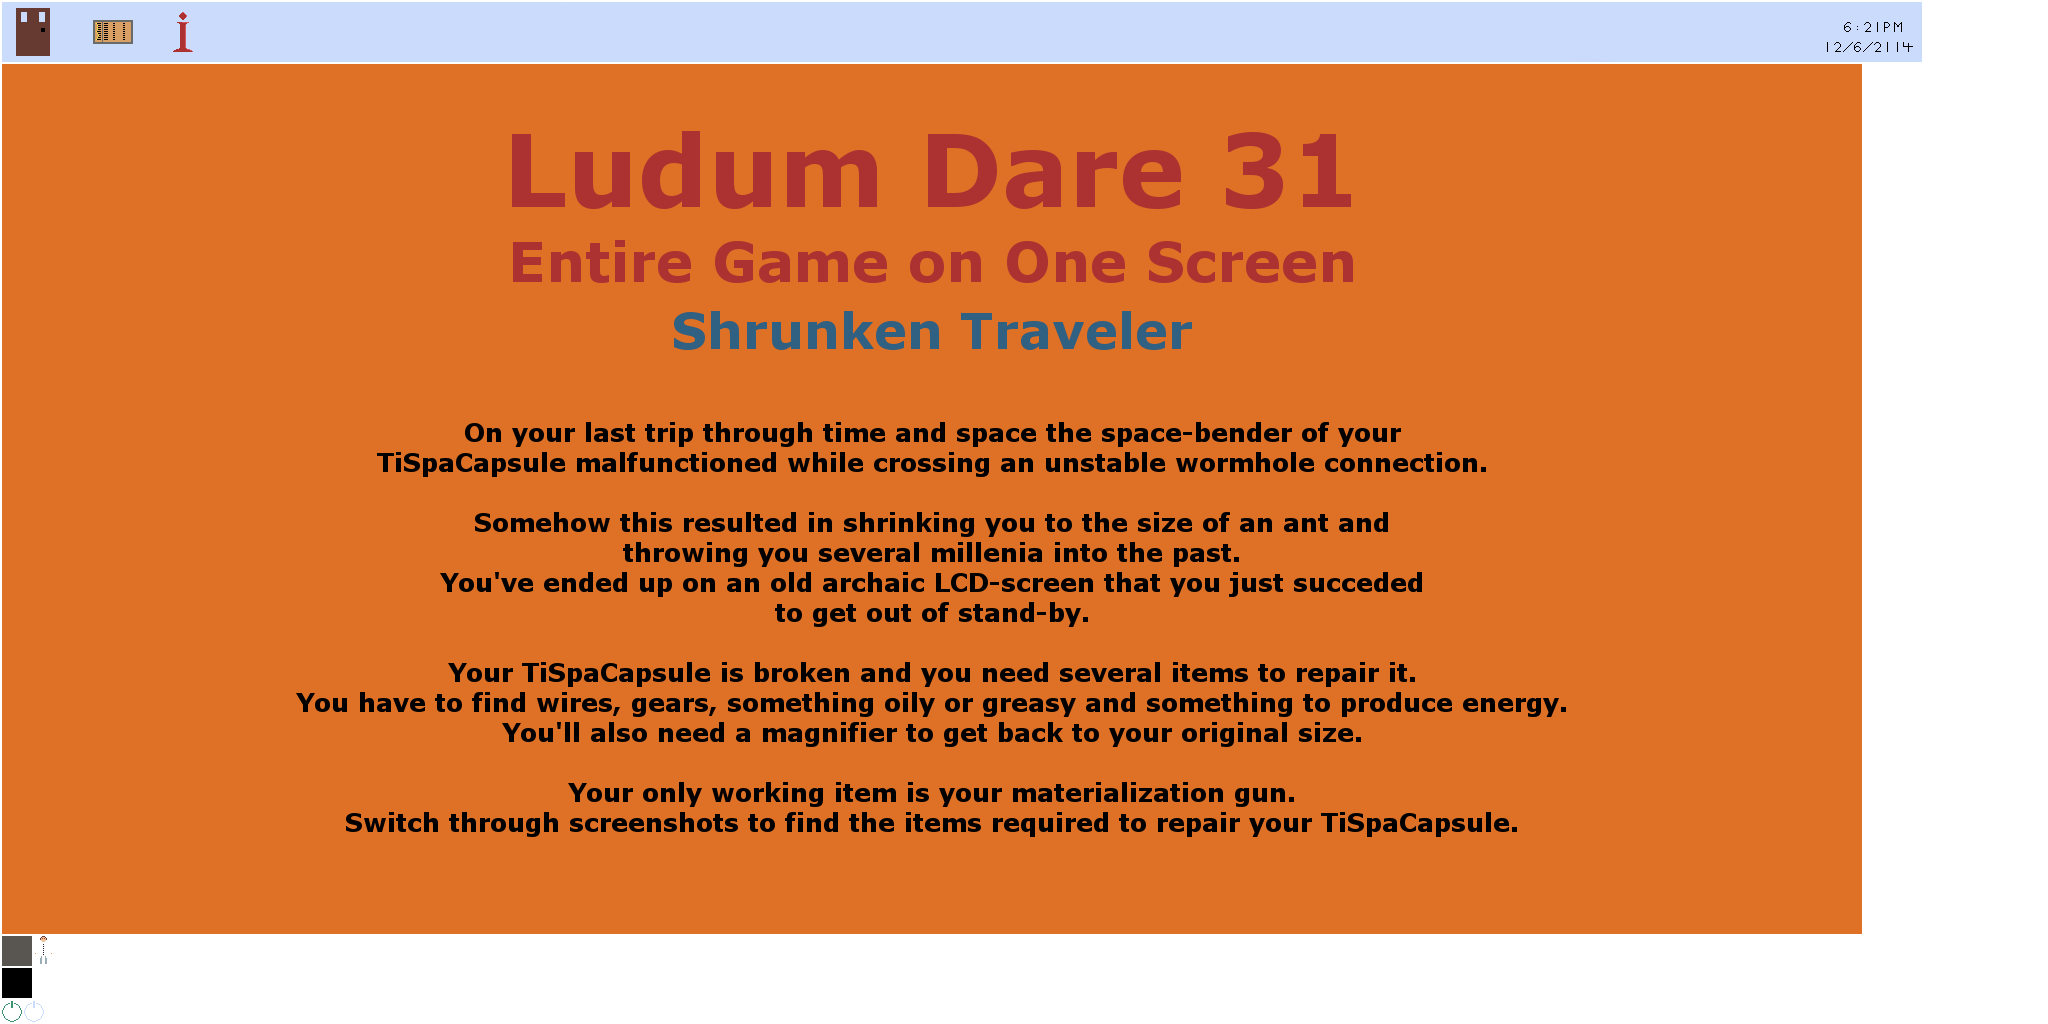
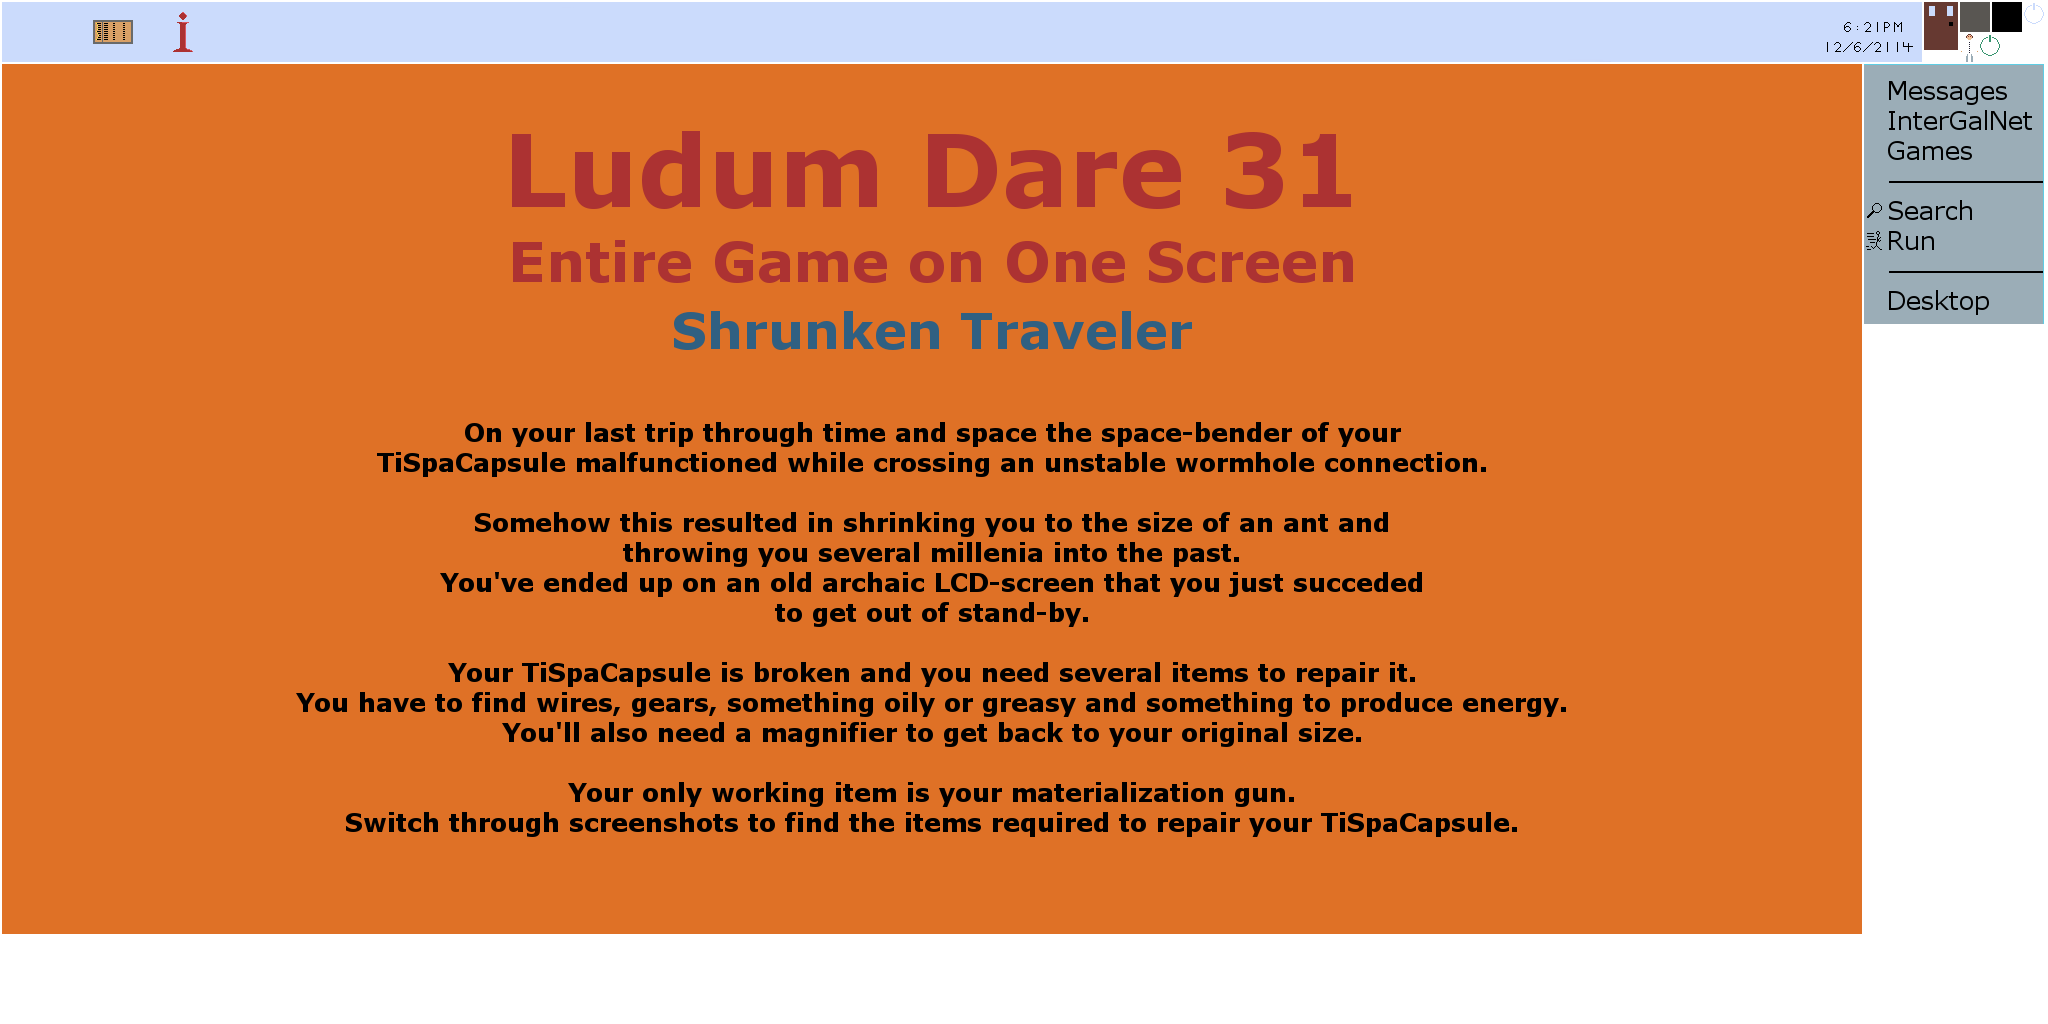
added doors-menu

Changed region(s): [[0.9062, 0.0, 1.0, 0.3438], [0.0, 0.9062, 0.0312, 1.0], [0.0, 0.0, 0.0312, 0.0625]]

diff --git a/lib/src/client/systems/rendering.dart b/lib/src/client/systems/rendering.dart
@@ -18,7 +18,7 @@ class RenderingSystem extends EntityProcessingSystem {
     var src = sheet.sprites[r.name].src;
     var dst = sheet.sprites[r.name].dst;
 
-    ctx.drawImageScaledFromSource(sheet.image, src.left, src.top, src.width, src.height, t.x, t.y, dst.width, dst.height);
+    ctx.drawImageScaledFromSource(sheet.image, src.left, src.top, src.width, src.height, t.x + tileSize/2 + dst.left, t.y + tileSize/2 + dst.top, dst.width, dst.height);
   }
 }
 
@@ -26,7 +26,7 @@ class ObjectLayerRenderingSystem extends RenderingSystem {
   ObjectLayerRenderingSystem(CanvasRenderingContext2D ctx, SpriteSheet sheet) : super(ctx, sheet, Aspect.getAspectForAllOf([ObjectLayer]));
 }
 class ButtonLayerRenderingSystem extends RenderingSystem {
-  ButtonLayerRenderingSystem(CanvasRenderingContext2D ctx, SpriteSheet sheet) : super(ctx, sheet, Aspect.getAspectForAllOf([Button]));
+  ButtonLayerRenderingSystem(CanvasRenderingContext2D ctx, SpriteSheet sheet) : super(ctx, sheet, Aspect.getAspectForAllOf([Button]).exclude([ScreenBackground]));
 }
 class ScreenBackgroundLayerRenderingSystem extends RenderingSystem {
   ScreenBackgroundLayerRenderingSystem(CanvasRenderingContext2D ctx, SpriteSheet sheet) : super(ctx, sheet, Aspect.getAspectForAllOf([ScreenBackground]));
@@ -147,4 +147,21 @@ class PreviewContainerRenderingSystem extends VoidEntitySystem {
 
   @override
   bool checkProcessing() => state.screenOn;
+}
+
+class DoorsMenuRenderingSystem extends VoidEntitySystem {
+  CanvasRenderingContext2D ctx;
+  SpriteSheet sheet;
+
+  DoorsMenuRenderingSystem(this.ctx, this.sheet);
+
+  @override
+  void processSystem() {
+    var src = sheet.sprites['doors_menu'].src;
+    var dst = sheet.sprites['doors_menu'].dst;
+    ctx.drawImageScaledFromSource(sheet.image, src.left, src.top, src.width, src.height, tileSize, 1080 - 2 * tileSize - dst.height, dst.width, dst.height);
+  }
+
+  @override
+  bool checkProcessing() => state.screenOn && state.doorsMenuOpened;
 }

diff --git a/lib/client.dart b/lib/client.dart
@@ -28,9 +28,10 @@ class Game extends GameBase {
   }
 
   void createEntities() {
-    addEntity([new Transform(0, 0), new Renderable('player'), new Controller(), new ObjectLayer()]);
+    addEntity([new Transform(1920, 1080), new Renderable('player'), new Controller(), new ObjectLayer()]);
     addEntity([new Transform(1920 - tileSize, 1080), new Renderable('button_off'), new Button(toggleScreen)]);
-    addEntity([new Transform(0, 1080 - 2 * tileSize), new Renderable('doors_taskbar'), new ScreenBackground()]);
+    addEntity([new Transform(1920/2 - tileSize/2, 1080 - 2 * tileSize + tileSize/2), new Renderable('doors_taskbar'), new ScreenBackground()]);
+    addEntity([new Transform(tileSize, 1080 - tileSize), new Renderable('doorsbutton'), new ScreenBackground(), new Button(toogleDoorsMenu)]);
   }
 
   void toggleScreen(Entity entity) {
@@ -41,6 +42,12 @@ class Game extends GameBase {
     } else {
       r.name = 'button_off';
       state.screenOn = false;
+    }
+  }
+
+  void toogleDoorsMenu(Entity entity) {
+    if (state.screenOn) {
+      state.doorsMenuOpened = !state.doorsMenuOpened;
     }
   }
 
@@ -58,6 +65,7 @@ class Game extends GameBase {
             new SwitchedOffScreenRenderingSystem(screenCtx, spriteSheet),
             new ScreenBackgroundLayerRenderingSystem(screenCtx, spriteSheet),
             new PreviewContainerRenderingSystem(screenCtx, spriteSheet),
+            new DoorsMenuRenderingSystem(screenCtx, spriteSheet),
             new ButtonLayerRenderingSystem(screenCtx, spriteSheet),
             new ObjectLayerRenderingSystem(screenCtx, spriteSheet),
             new ScreenToCanvasRenderingSystem(screen, ctx),

diff --git a/lib/src/shared/managers.dart b/lib/src/shared/managers.dart
@@ -14,8 +14,8 @@ class ButtonManager extends Manager {
   }
 
   int getTileIndex(num x, num y) {
-    var tileX = x ~/ tileSize;
-    var tileY = y ~/ tileSize;
-    return tileX * tileY + tileX;
+    var tileX = 1 + x ~/ tileSize;
+    var tileY = 1 + y ~/ tileSize;
+    return tileY * (1920 ~/ tileSize + 2) + tileX;
   }
 }

diff --git a/lib/shared.dart b/lib/shared.dart
@@ -14,6 +14,7 @@ GameState state = new GameState();
 
 class GameState {
   bool screenOn = false;
+  bool doorsMenuOpened = false;
 }
 
 // Dawnbringer 32 palette
